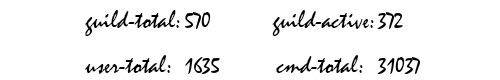
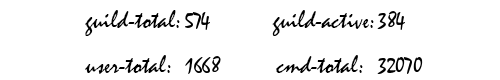
fix(log): fix log_base img err

diff --git a/code/bot_log.py b/code/bot_log.py
@@ -75,8 +75,7 @@ def logging(msg: Message):
 
 # 记录信息的底图
 font_color = '#000000' # 黑色
-log_base_img = Image.open(io.BytesIO(
-    requests.get("https://s1.ax1x.com/2022/10/06/x11HdH.png").content))  # vip用户背景框 16-9
+log_base_img = Image.open("../screenshot/log_base.png") 
 # 画图，把当前加入的服务器总数等等信息以图片形式显示在README中
 async def log_bot_img():
     bg = deepcopy(log_base_img)  # 新建一个画布

diff --git a/code/main.py b/code/main.py
@@ -3517,7 +3517,7 @@ async def bot_log_list(msg:Message,*arg):
     logging(msg)
     try:
         if msg.author_id == master_id:
-            # retDict = await log_bot_list(msg)
+            retDict = await log_bot_list(msg)
             # i=1
             # text_name = "No  服务器名\n"
             # text_user = "用户数\n"
